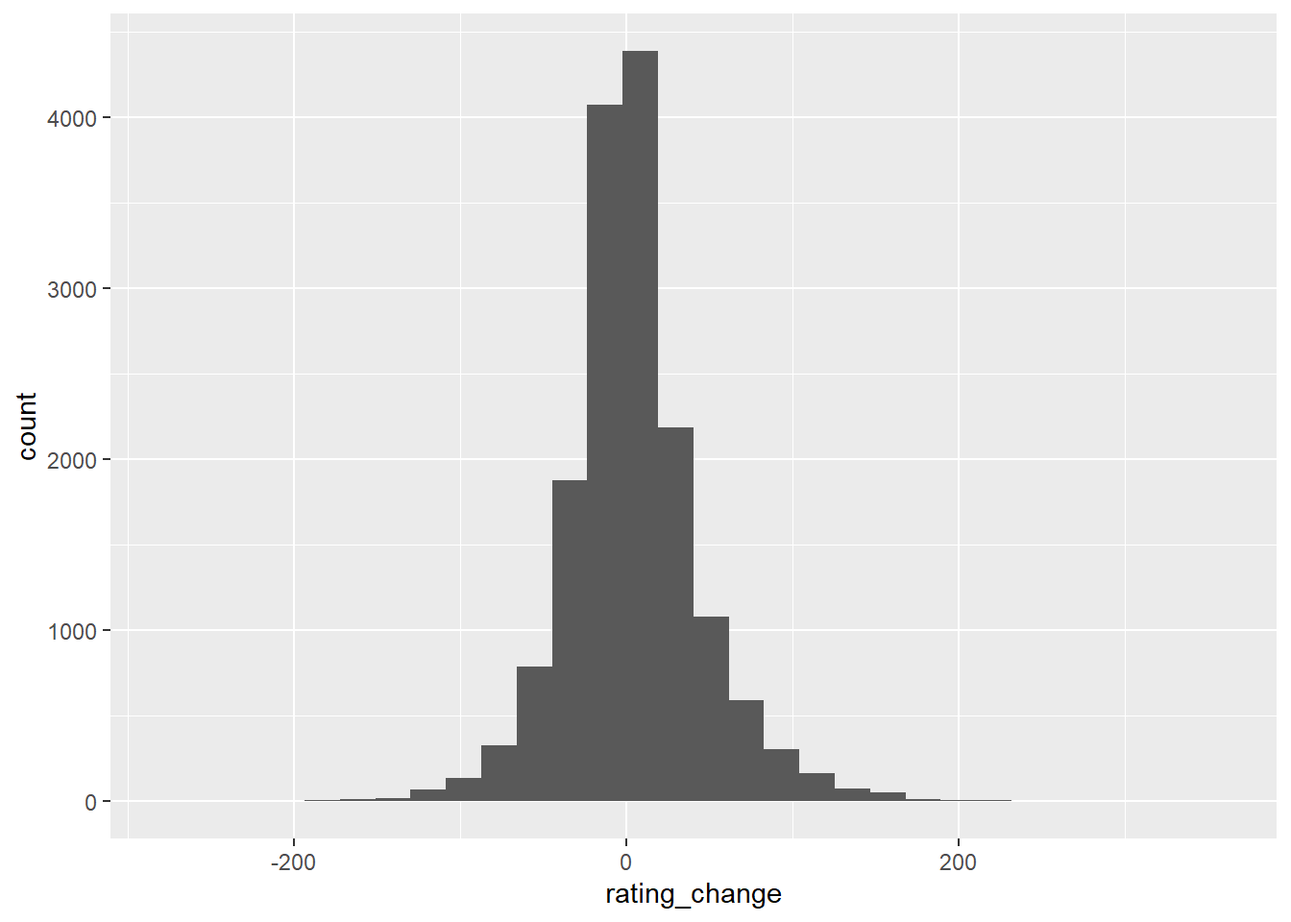
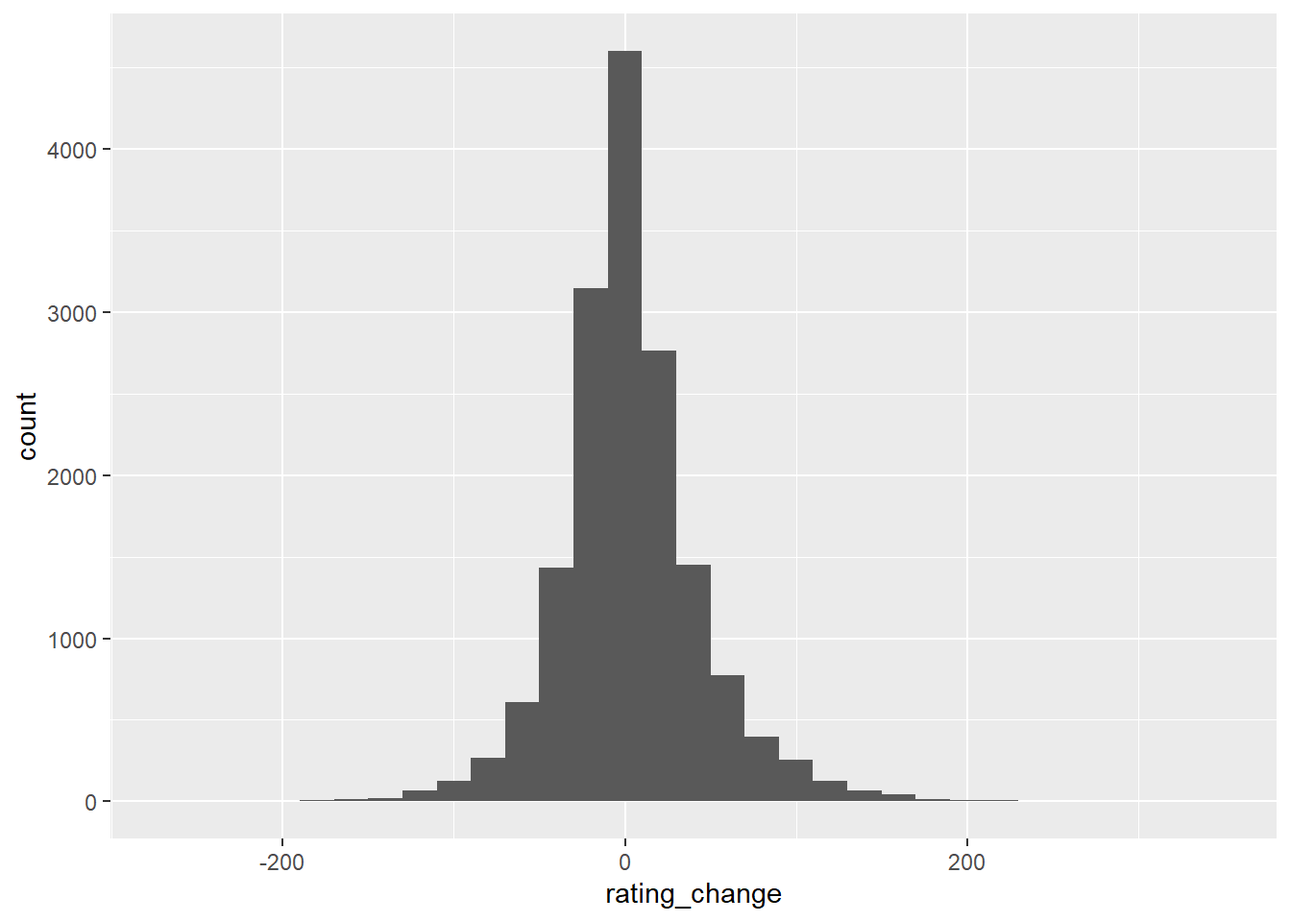
Cleaned up some grammar and presentation stuff.

diff --git a/2025_09_23_FIDE_Chess.html b/2025_09_23_FIDE_Chess.html
@@ -6,7 +6,7 @@
 
 <meta name="viewport" content="width=device-width, initial-scale=1.0, user-scalable=yes">
 
-<meta name="dcterms.date" content="2025-09-29">
+<meta name="dcterms.date" content="2025-09-30">
 
 <title>Tidy Tuesday (2025-09-23): FIDE Chess Player Ratings</title>
 <style>
@@ -93,7 +93,7 @@ pre > code.sourceCode > span > a:first-child::before { text-decoration: underlin
     <div>
     <div class="quarto-title-meta-heading">Published</div>
     <div class="quarto-title-meta-contents">
-      <p class="date">September 29, 2025</p>
+      <p class="date">September 30, 2025</p>
     </div>
   </div>
   
@@ -118,7 +118,7 @@ pre > code.sourceCode > span > a:first-child::before { text-decoration: underlin
 <section id="intro" class="level1">
 <h1>Intro</h1>
 <section id="fide-chess-player-ratings-background-git" class="level2">
-<h2 class="anchored" data-anchor-id="fide-chess-player-ratings-background-git">FIDE Chess Player Ratings Background (*<a href="https://github.com/rfordatascience/tidytuesday/tree/main/data/2025/2025-09-23*">Git</a>)</h2>
+<h2 class="anchored" data-anchor-id="fide-chess-player-ratings-background-git">FIDE Chess Player Ratings Background (<em><a href="https://github.com/rfordatascience/tidytuesday/tree/main/data/2025/2025-09-23">Git</a></em>)</h2>
 <p>This week we’re exploring August and September chess player rating data from FIDE (the International Chess Federation). Monthly data files are published on the <a href="https://www.fide.com/fide-september-2025-rating-list-vincent-keymer-debuts-in-top-10-open/">FIDE website</a>.</p>
 <p>A chess rating (Elo) is an estimate of a player’s strength relative to other players. If a player performs better or worse than expected, their rating increases or decreases accordingly.</p>
 <p>The September 2025 rating list was shaped primarily by results from the Sinquefield Cup, Quantbox Chennai Grand Masters, 61st International Akiba Rubinstein Chess Festival, and the Spanish League Honor Division 2025 – a Swiss team tournament held in Linares.</p>
@@ -178,7 +178,7 @@ pre > code.sourceCode > span > a:first-child::before { text-decoration: underlin
 <span id="cb4-8"><a href="#cb4-8" aria-hidden="true" tabindex="-1"></a>    ) <span class="sc">|&gt;</span></span>
 <span id="cb4-9"><a href="#cb4-9" aria-hidden="true" tabindex="-1"></a>    <span class="fu">mutate</span>(</span>
 <span id="cb4-10"><a href="#cb4-10" aria-hidden="true" tabindex="-1"></a>      <span class="at">age_range =</span> <span class="fu">case_when</span>(</span>
-<span id="cb4-11"><a href="#cb4-11" aria-hidden="true" tabindex="-1"></a>        <span class="fu">between</span>(age, <span class="dv">5</span>, <span class="dv">9</span>) <span class="sc">~</span> <span class="st">"5 - 9"</span>,</span>
+<span id="cb4-11"><a href="#cb4-11" aria-hidden="true" tabindex="-1"></a>        <span class="fu">between</span>(age, <span class="dv">0</span>, <span class="dv">9</span>) <span class="sc">~</span> <span class="st">"0 - 9"</span>,</span>
 <span id="cb4-12"><a href="#cb4-12" aria-hidden="true" tabindex="-1"></a>        <span class="fu">between</span>(age, <span class="dv">10</span>, <span class="dv">14</span>) <span class="sc">~</span> <span class="st">"10 - 14"</span>,</span>
 <span id="cb4-13"><a href="#cb4-13" aria-hidden="true" tabindex="-1"></a>        <span class="fu">between</span>(age, <span class="dv">15</span>, <span class="dv">19</span>) <span class="sc">~</span> <span class="st">"15 - 19"</span>,</span>
 <span id="cb4-14"><a href="#cb4-14" aria-hidden="true" tabindex="-1"></a>        <span class="fu">between</span>(age, <span class="dv">20</span>, <span class="dv">24</span>) <span class="sc">~</span> <span class="st">"20 - 24"</span>,</span>
@@ -193,7 +193,7 @@ pre > code.sourceCode > span > a:first-child::before { text-decoration: underlin
 <span id="cb4-23"><a href="#cb4-23" aria-hidden="true" tabindex="-1"></a>      <span class="at">age_range =</span> <span class="fu">factor</span>(</span>
 <span id="cb4-24"><a href="#cb4-24" aria-hidden="true" tabindex="-1"></a>        age_range,</span>
 <span id="cb4-25"><a href="#cb4-25" aria-hidden="true" tabindex="-1"></a>        <span class="fu">c</span>(</span>
-<span id="cb4-26"><a href="#cb4-26" aria-hidden="true" tabindex="-1"></a>          <span class="st">"5 - 9"</span>,</span>
+<span id="cb4-26"><a href="#cb4-26" aria-hidden="true" tabindex="-1"></a>          <span class="st">"0 - 9"</span>,</span>
 <span id="cb4-27"><a href="#cb4-27" aria-hidden="true" tabindex="-1"></a>          <span class="st">"10 - 14"</span>,</span>
 <span id="cb4-28"><a href="#cb4-28" aria-hidden="true" tabindex="-1"></a>          <span class="st">"15 - 19"</span>,</span>
 <span id="cb4-29"><a href="#cb4-29" aria-hidden="true" tabindex="-1"></a>          <span class="st">"20 - 24"</span>,</span>
@@ -230,10 +230,11 @@ pre > code.sourceCode > span > a:first-child::before { text-decoration: underlin
 <span id="cb6-3"><a href="#cb6-3" aria-hidden="true" tabindex="-1"></a>    <span class="fu">summarise</span>(</span>
 <span id="cb6-4"><a href="#cb6-4" aria-hidden="true" tabindex="-1"></a>        <span class="at">n_active =</span> dplyr<span class="sc">::</span><span class="fu">n_distinct</span>(id),</span>
 <span id="cb6-5"><a href="#cb6-5" aria-hidden="true" tabindex="-1"></a>        <span class="at">n_logged =</span> <span class="fu">sum</span>(games <span class="sc">&gt;</span> <span class="dv">0</span>),</span>
-<span id="cb6-6"><a href="#cb6-6" aria-hidden="true" tabindex="-1"></a>        <span class="at">percent_log =</span> <span class="fu">round</span>(n_logged <span class="sc">/</span> n_active <span class="sc">*</span> <span class="dv">100</span>, <span class="dv">1</span>)</span>
-<span id="cb6-7"><a href="#cb6-7" aria-hidden="true" tabindex="-1"></a>        )</span>
-<span id="cb6-8"><a href="#cb6-8" aria-hidden="true" tabindex="-1"></a></span>
-<span id="cb6-9"><a href="#cb6-9" aria-hidden="true" tabindex="-1"></a><span class="fu">kable</span>(tb_ratings_summary)</span></code><button title="Copy to Clipboard" class="code-copy-button"><i class="bi"></i></button></pre></div>
+<span id="cb6-6"><a href="#cb6-6" aria-hidden="true" tabindex="-1"></a>        <span class="at">percent_log =</span> <span class="fu">round</span>(n_logged <span class="sc">/</span> n_active <span class="sc">*</span> <span class="dv">100</span>, <span class="dv">1</span>),</span>
+<span id="cb6-7"><a href="#cb6-7" aria-hidden="true" tabindex="-1"></a>        <span class="at">.groups =</span> <span class="st">"keep"</span></span>
+<span id="cb6-8"><a href="#cb6-8" aria-hidden="true" tabindex="-1"></a>        )</span>
+<span id="cb6-9"><a href="#cb6-9" aria-hidden="true" tabindex="-1"></a></span>
+<span id="cb6-10"><a href="#cb6-10" aria-hidden="true" tabindex="-1"></a><span class="fu">kable</span>(tb_ratings_summary)</span></code><button title="Copy to Clipboard" class="code-copy-button"><i class="bi"></i></button></pre></div>
 </details>
 <div class="cell-output-display">
 <table class="caption-top table table-sm table-striped small">
@@ -419,11 +420,8 @@ pre > code.sourceCode > span > a:first-child::before { text-decoration: underlin
 <summary>Code</summary>
 <div class="sourceCode cell-code" id="cb13"><pre class="sourceCode r code-with-copy"><code class="sourceCode r"><span id="cb13-1"><a href="#cb13-1" aria-hidden="true" tabindex="-1"></a>tb_ratings_change <span class="sc">|&gt;</span> </span>
 <span id="cb13-2"><a href="#cb13-2" aria-hidden="true" tabindex="-1"></a>  <span class="fu">ggplot</span>(<span class="fu">aes</span>(rating_change)) <span class="sc">+</span></span>
-<span id="cb13-3"><a href="#cb13-3" aria-hidden="true" tabindex="-1"></a>  <span class="fu">geom_histogram</span>()</span></code><button title="Copy to Clipboard" class="code-copy-button"><i class="bi"></i></button></pre></div>
+<span id="cb13-3"><a href="#cb13-3" aria-hidden="true" tabindex="-1"></a>  <span class="fu">geom_histogram</span>(<span class="at">binwidth =</span> <span class="dv">20</span>)</span></code><button title="Copy to Clipboard" class="code-copy-button"><i class="bi"></i></button></pre></div>
 </details>
-<div class="cell-output cell-output-stderr">
-<pre><code>`stat_bin()` using `bins = 30`. Pick better value `binwidth`.</code></pre>
-</div>
 <div class="cell-output-display">
 <div>
 <figure class="figure">
@@ -433,20 +431,20 @@ pre > code.sourceCode > span > a:first-child::before { text-decoration: underlin
 </div>
 <details class="code-fold">
 <summary>Code</summary>
-<div class="sourceCode cell-code" id="cb15"><pre class="sourceCode r code-with-copy"><code class="sourceCode r"><span id="cb15-1"><a href="#cb15-1" aria-hidden="true" tabindex="-1"></a>t_test_change <span class="ot">&lt;-</span> <span class="fu">t.test</span>(tb_ratings_change<span class="sc">$</span>rating_change)</span></code><button title="Copy to Clipboard" class="code-copy-button"><i class="bi"></i></button></pre></div>
+<div class="sourceCode cell-code" id="cb14"><pre class="sourceCode r code-with-copy"><code class="sourceCode r"><span id="cb14-1"><a href="#cb14-1" aria-hidden="true" tabindex="-1"></a>t_test_change <span class="ot">&lt;-</span> <span class="fu">t.test</span>(tb_ratings_change<span class="sc">$</span>rating_change)</span></code><button title="Copy to Clipboard" class="code-copy-button"><i class="bi"></i></button></pre></div>
 </details>
 </div>
-<p>The average player improved their Elo from August to September by 4 with 95% CI [3.1273579, 4.3906117].</p>
+<p>The average player improved their Elo from August to September by 3.8 with 95% CI [3.1, 4.4].</p>
 <div class="cell" data-tbl-cap="Top 5 Elo changes from August to September for each title category.">
 <details class="code-fold">
 <summary>Code</summary>
-<div class="sourceCode cell-code" id="cb16"><pre class="sourceCode r code-with-copy"><code class="sourceCode r"><span id="cb16-1"><a href="#cb16-1" aria-hidden="true" tabindex="-1"></a>tb_ratings_change <span class="sc">|&gt;</span> </span>
-<span id="cb16-2"><a href="#cb16-2" aria-hidden="true" tabindex="-1"></a>  <span class="fu">mutate</span>(<span class="at">abs_change =</span> <span class="fu">abs</span>(rating_change)) <span class="sc">|&gt;</span> </span>
-<span id="cb16-3"><a href="#cb16-3" aria-hidden="true" tabindex="-1"></a>  <span class="fu">arrange</span>(<span class="fu">desc</span>(abs_change)) <span class="sc">|&gt;</span> </span>
-<span id="cb16-4"><a href="#cb16-4" aria-hidden="true" tabindex="-1"></a>  <span class="fu">select</span>(name, sex, age, fed, title, rating_September, rating_change) <span class="sc">|&gt;</span> </span>
-<span id="cb16-5"><a href="#cb16-5" aria-hidden="true" tabindex="-1"></a>  <span class="fu">group_by</span>(title) <span class="sc">|&gt;</span> </span>
-<span id="cb16-6"><a href="#cb16-6" aria-hidden="true" tabindex="-1"></a>  <span class="fu">slice_head</span>(<span class="at">n =</span> <span class="dv">5</span>) <span class="sc">|&gt;</span> </span>
-<span id="cb16-7"><a href="#cb16-7" aria-hidden="true" tabindex="-1"></a>  <span class="fu">kable</span>()</span></code><button title="Copy to Clipboard" class="code-copy-button"><i class="bi"></i></button></pre></div>
+<div class="sourceCode cell-code" id="cb15"><pre class="sourceCode r code-with-copy"><code class="sourceCode r"><span id="cb15-1"><a href="#cb15-1" aria-hidden="true" tabindex="-1"></a>tb_ratings_change <span class="sc">|&gt;</span> </span>
+<span id="cb15-2"><a href="#cb15-2" aria-hidden="true" tabindex="-1"></a>  <span class="fu">mutate</span>(<span class="at">abs_change =</span> <span class="fu">abs</span>(rating_change)) <span class="sc">|&gt;</span> </span>
+<span id="cb15-3"><a href="#cb15-3" aria-hidden="true" tabindex="-1"></a>  <span class="fu">arrange</span>(<span class="fu">desc</span>(abs_change)) <span class="sc">|&gt;</span> </span>
+<span id="cb15-4"><a href="#cb15-4" aria-hidden="true" tabindex="-1"></a>  <span class="fu">select</span>(name, sex, age, fed, title, rating_September, rating_change) <span class="sc">|&gt;</span> </span>
+<span id="cb15-5"><a href="#cb15-5" aria-hidden="true" tabindex="-1"></a>  <span class="fu">group_by</span>(title) <span class="sc">|&gt;</span> </span>
+<span id="cb15-6"><a href="#cb15-6" aria-hidden="true" tabindex="-1"></a>  <span class="fu">slice_head</span>(<span class="at">n =</span> <span class="dv">5</span>) <span class="sc">|&gt;</span> </span>
+<span id="cb15-7"><a href="#cb15-7" aria-hidden="true" tabindex="-1"></a>  <span class="fu">kable</span>()</span></code><button title="Copy to Clipboard" class="code-copy-button"><i class="bi"></i></button></pre></div>
 </details>
 <div class="cell-output-display">
 <table class="caption-top table table-sm table-striped small">
@@ -884,22 +882,18 @@ pre > code.sourceCode > span > a:first-child::before { text-decoration: underlin
 <div class="cell">
 <details class="code-fold">
 <summary>Code</summary>
-<div class="sourceCode cell-code" id="cb17"><pre class="sourceCode r code-with-copy"><code class="sourceCode r"><span id="cb17-1"><a href="#cb17-1" aria-hidden="true" tabindex="-1"></a>tb_title_summary <span class="ot">&lt;-</span> tb_ratings <span class="sc">|&gt;</span></span>
-<span id="cb17-2"><a href="#cb17-2" aria-hidden="true" tabindex="-1"></a>  <span class="fu">group_by</span>(sex, month) <span class="sc">|&gt;</span></span>
-<span id="cb17-3"><a href="#cb17-3" aria-hidden="true" tabindex="-1"></a>  <span class="fu">count</span>(title, <span class="at">name =</span> <span class="st">"n_people"</span>) <span class="sc">|&gt;</span></span>
-<span id="cb17-4"><a href="#cb17-4" aria-hidden="true" tabindex="-1"></a>  <span class="fu">add_count</span>(sex, <span class="at">wt =</span> n_people, <span class="at">name =</span> <span class="st">"total"</span>) <span class="sc">|&gt;</span></span>
-<span id="cb17-5"><a href="#cb17-5" aria-hidden="true" tabindex="-1"></a>  <span class="fu">mutate</span>(<span class="at">percent_title =</span> <span class="fu">round</span>(n_people <span class="sc">/</span> total <span class="sc">*</span> <span class="dv">100</span>, <span class="dv">2</span>))</span>
-<span id="cb17-6"><a href="#cb17-6" aria-hidden="true" tabindex="-1"></a></span>
-<span id="cb17-7"><a href="#cb17-7" aria-hidden="true" tabindex="-1"></a>tb_ratings <span class="sc">|&gt;</span></span>
-<span id="cb17-8"><a href="#cb17-8" aria-hidden="true" tabindex="-1"></a>  <span class="fu">filter</span>(<span class="sc">!</span><span class="fu">is.na</span>(title)) <span class="sc">|&gt;</span></span>
-<span id="cb17-9"><a href="#cb17-9" aria-hidden="true" tabindex="-1"></a>  <span class="fu">ggplot</span>(<span class="fu">aes</span>(title, <span class="at">fill =</span> month)) <span class="sc">+</span></span>
-<span id="cb17-10"><a href="#cb17-10" aria-hidden="true" tabindex="-1"></a>  <span class="fu">geom_histogram</span>(<span class="at">stat =</span> <span class="st">"count"</span>, <span class="at">position =</span> <span class="st">"identity"</span>) <span class="sc">+</span></span>
-<span id="cb17-11"><a href="#cb17-11" aria-hidden="true" tabindex="-1"></a>  <span class="fu">facet_wrap</span>(<span class="fu">vars</span>(sex))</span></code><button title="Copy to Clipboard" class="code-copy-button"><i class="bi"></i></button></pre></div>
+<div class="sourceCode cell-code" id="cb16"><pre class="sourceCode r code-with-copy"><code class="sourceCode r"><span id="cb16-1"><a href="#cb16-1" aria-hidden="true" tabindex="-1"></a>tb_title_summary <span class="ot">&lt;-</span> tb_ratings <span class="sc">|&gt;</span></span>
+<span id="cb16-2"><a href="#cb16-2" aria-hidden="true" tabindex="-1"></a>  <span class="fu">group_by</span>(sex, month) <span class="sc">|&gt;</span></span>
+<span id="cb16-3"><a href="#cb16-3" aria-hidden="true" tabindex="-1"></a>  <span class="fu">count</span>(title, <span class="at">name =</span> <span class="st">"n_people"</span>) <span class="sc">|&gt;</span></span>
+<span id="cb16-4"><a href="#cb16-4" aria-hidden="true" tabindex="-1"></a>  <span class="fu">add_count</span>(sex, <span class="at">wt =</span> n_people, <span class="at">name =</span> <span class="st">"total"</span>) <span class="sc">|&gt;</span></span>
+<span id="cb16-5"><a href="#cb16-5" aria-hidden="true" tabindex="-1"></a>  <span class="fu">mutate</span>(<span class="at">percent_title =</span> <span class="fu">round</span>(n_people <span class="sc">/</span> total <span class="sc">*</span> <span class="dv">100</span>, <span class="dv">2</span>))</span>
+<span id="cb16-6"><a href="#cb16-6" aria-hidden="true" tabindex="-1"></a></span>
+<span id="cb16-7"><a href="#cb16-7" aria-hidden="true" tabindex="-1"></a>tb_ratings <span class="sc">|&gt;</span></span>
+<span id="cb16-8"><a href="#cb16-8" aria-hidden="true" tabindex="-1"></a>  <span class="fu">filter</span>(<span class="sc">!</span><span class="fu">is.na</span>(title)) <span class="sc">|&gt;</span></span>
+<span id="cb16-9"><a href="#cb16-9" aria-hidden="true" tabindex="-1"></a>  <span class="fu">ggplot</span>(<span class="fu">aes</span>(title, <span class="at">fill =</span> month)) <span class="sc">+</span></span>
+<span id="cb16-10"><a href="#cb16-10" aria-hidden="true" tabindex="-1"></a>  <span class="fu">geom_histogram</span>(<span class="at">stat =</span> <span class="st">"count"</span>, <span class="at">position =</span> <span class="st">"identity"</span>) <span class="sc">+</span></span>
+<span id="cb16-11"><a href="#cb16-11" aria-hidden="true" tabindex="-1"></a>  <span class="fu">facet_wrap</span>(<span class="fu">vars</span>(sex))</span></code><button title="Copy to Clipboard" class="code-copy-button"><i class="bi"></i></button></pre></div>
 </details>
-<div class="cell-output cell-output-stderr">
-<pre><code>Warning in geom_histogram(stat = "count", position = "identity"): Ignoring
-unknown parameters: `binwidth` and `bins`</code></pre>
-</div>
 <div class="cell-output-display">
 <div class="quarto-figure quarto-figure-center">
 <figure class="figure">
@@ -912,21 +906,21 @@ unknown parameters: `binwidth` and `bins`</code></pre>
 <div class="cell">
 <details class="code-fold">
 <summary>Code</summary>
-<div class="sourceCode cell-code" id="cb19"><pre class="sourceCode r code-with-copy"><code class="sourceCode r"><span id="cb19-1"><a href="#cb19-1" aria-hidden="true" tabindex="-1"></a>tb_sex_ratio <span class="ot">&lt;-</span> tb_ratings <span class="sc">|&gt;</span></span>
-<span id="cb19-2"><a href="#cb19-2" aria-hidden="true" tabindex="-1"></a>  <span class="fu">anti_join</span>(tb_removed <span class="sc">|&gt;</span> <span class="fu">drop_na</span>(games), <span class="fu">join_by</span>(id)) <span class="sc">|&gt;</span> </span>
-<span id="cb19-3"><a href="#cb19-3" aria-hidden="true" tabindex="-1"></a>  <span class="fu">distinct</span>(id, <span class="at">.keep_all =</span> T) <span class="sc">|&gt;</span> </span>
-<span id="cb19-4"><a href="#cb19-4" aria-hidden="true" tabindex="-1"></a>  <span class="fu">group_by</span>(sex, fed) <span class="sc">|&gt;</span></span>
-<span id="cb19-5"><a href="#cb19-5" aria-hidden="true" tabindex="-1"></a>  <span class="fu">count</span>(age_range, <span class="at">name =</span> <span class="st">"n_people"</span>) <span class="sc">|&gt;</span></span>
-<span id="cb19-6"><a href="#cb19-6" aria-hidden="true" tabindex="-1"></a>  <span class="fu">pivot_wider</span>(<span class="at">names_from =</span> sex, <span class="at">values_from =</span> n_people) <span class="sc">|&gt;</span></span>
-<span id="cb19-7"><a href="#cb19-7" aria-hidden="true" tabindex="-1"></a>  <span class="fu">drop_na</span>(age_range) <span class="sc">|&gt;</span> </span>
-<span id="cb19-8"><a href="#cb19-8" aria-hidden="true" tabindex="-1"></a>  <span class="fu">mutate</span>(<span class="at">sex_ratio =</span> M <span class="sc">/</span> F)</span>
-<span id="cb19-9"><a href="#cb19-9" aria-hidden="true" tabindex="-1"></a></span>
-<span id="cb19-10"><a href="#cb19-10" aria-hidden="true" tabindex="-1"></a>tb_sex_ratio <span class="sc">|&gt;</span></span>
-<span id="cb19-11"><a href="#cb19-11" aria-hidden="true" tabindex="-1"></a>  <span class="fu">drop_na</span>(sex_ratio) <span class="sc">|&gt;</span> </span>
-<span id="cb19-12"><a href="#cb19-12" aria-hidden="true" tabindex="-1"></a>  <span class="fu">ggplot</span>(<span class="fu">aes</span>(<span class="fu">fct_rev</span>(age_range), sex_ratio, <span class="at">fill =</span> age_range)) <span class="sc">+</span></span>
-<span id="cb19-13"><a href="#cb19-13" aria-hidden="true" tabindex="-1"></a>  <span class="fu">geom_violin</span>() <span class="sc">+</span></span>
-<span id="cb19-14"><a href="#cb19-14" aria-hidden="true" tabindex="-1"></a>  <span class="fu">geom_point</span>(<span class="fu">aes</span>(<span class="at">size =</span> F <span class="sc">+</span> M), <span class="at">alpha =</span> <span class="fl">0.6</span>) <span class="sc">+</span></span>
-<span id="cb19-15"><a href="#cb19-15" aria-hidden="true" tabindex="-1"></a>  <span class="fu">labs</span>(<span class="at">x =</span> <span class="st">"age"</span>, <span class="at">y =</span> <span class="st">"sex ratio (M:F)"</span>)</span></code><button title="Copy to Clipboard" class="code-copy-button"><i class="bi"></i></button></pre></div>
+<div class="sourceCode cell-code" id="cb17"><pre class="sourceCode r code-with-copy"><code class="sourceCode r"><span id="cb17-1"><a href="#cb17-1" aria-hidden="true" tabindex="-1"></a>tb_sex_ratio <span class="ot">&lt;-</span> tb_ratings <span class="sc">|&gt;</span></span>
+<span id="cb17-2"><a href="#cb17-2" aria-hidden="true" tabindex="-1"></a>  <span class="fu">anti_join</span>(tb_removed <span class="sc">|&gt;</span> <span class="fu">drop_na</span>(games), <span class="fu">join_by</span>(id)) <span class="sc">|&gt;</span> </span>
+<span id="cb17-3"><a href="#cb17-3" aria-hidden="true" tabindex="-1"></a>  <span class="fu">distinct</span>(id, <span class="at">.keep_all =</span> T) <span class="sc">|&gt;</span> </span>
+<span id="cb17-4"><a href="#cb17-4" aria-hidden="true" tabindex="-1"></a>  <span class="fu">group_by</span>(sex, fed) <span class="sc">|&gt;</span></span>
+<span id="cb17-5"><a href="#cb17-5" aria-hidden="true" tabindex="-1"></a>  <span class="fu">count</span>(age_range, <span class="at">name =</span> <span class="st">"n_people"</span>) <span class="sc">|&gt;</span></span>
+<span id="cb17-6"><a href="#cb17-6" aria-hidden="true" tabindex="-1"></a>  <span class="fu">pivot_wider</span>(<span class="at">names_from =</span> sex, <span class="at">values_from =</span> n_people) <span class="sc">|&gt;</span></span>
+<span id="cb17-7"><a href="#cb17-7" aria-hidden="true" tabindex="-1"></a>  <span class="fu">drop_na</span>(age_range) <span class="sc">|&gt;</span> </span>
+<span id="cb17-8"><a href="#cb17-8" aria-hidden="true" tabindex="-1"></a>  <span class="fu">mutate</span>(<span class="at">sex_ratio =</span> M <span class="sc">/</span> F)</span>
+<span id="cb17-9"><a href="#cb17-9" aria-hidden="true" tabindex="-1"></a></span>
+<span id="cb17-10"><a href="#cb17-10" aria-hidden="true" tabindex="-1"></a>tb_sex_ratio <span class="sc">|&gt;</span></span>
+<span id="cb17-11"><a href="#cb17-11" aria-hidden="true" tabindex="-1"></a>  <span class="fu">drop_na</span>(sex_ratio) <span class="sc">|&gt;</span> </span>
+<span id="cb17-12"><a href="#cb17-12" aria-hidden="true" tabindex="-1"></a>  <span class="fu">ggplot</span>(<span class="fu">aes</span>(<span class="fu">fct_rev</span>(age_range), sex_ratio, <span class="at">fill =</span> age_range)) <span class="sc">+</span></span>
+<span id="cb17-13"><a href="#cb17-13" aria-hidden="true" tabindex="-1"></a>  <span class="fu">geom_violin</span>() <span class="sc">+</span></span>
+<span id="cb17-14"><a href="#cb17-14" aria-hidden="true" tabindex="-1"></a>  <span class="fu">geom_point</span>(<span class="fu">aes</span>(<span class="at">size =</span> F <span class="sc">+</span> M), <span class="at">alpha =</span> <span class="fl">0.6</span>) <span class="sc">+</span></span>
+<span id="cb17-15"><a href="#cb17-15" aria-hidden="true" tabindex="-1"></a>  <span class="fu">labs</span>(<span class="at">x =</span> <span class="st">"age"</span>, <span class="at">y =</span> <span class="st">"sex ratio (M:F)"</span>)</span></code><button title="Copy to Clipboard" class="code-copy-button"><i class="bi"></i></button></pre></div>
 </details>
 <div class="cell-output-display">
 <div>
@@ -940,44 +934,188 @@ unknown parameters: `binwidth` and `bins`</code></pre>
 <div class="cell">
 <details class="code-fold">
 <summary>Code</summary>
-<div class="sourceCode cell-code" id="cb20"><pre class="sourceCode r code-with-copy"><code class="sourceCode r"><span id="cb20-1"><a href="#cb20-1" aria-hidden="true" tabindex="-1"></a>tb_sex_ratio <span class="sc">|&gt;</span> <span class="fu">group_by</span>(age_range) <span class="sc">|&gt;</span> <span class="fu">slice_max</span>(sex_ratio)</span></code><button title="Copy to Clipboard" class="code-copy-button"><i class="bi"></i></button></pre></div>
+<div class="sourceCode cell-code" id="cb18"><pre class="sourceCode r code-with-copy"><code class="sourceCode r"><span id="cb18-1"><a href="#cb18-1" aria-hidden="true" tabindex="-1"></a>tb_sex_ratio <span class="sc">|&gt;</span> <span class="fu">group_by</span>(age_range) <span class="sc">|&gt;</span> <span class="fu">slice_max</span>(sex_ratio) <span class="sc">|&gt;</span> <span class="fu">kable</span>()</span></code><button title="Copy to Clipboard" class="code-copy-button"><i class="bi"></i></button></pre></div>
 </details>
-<div class="cell-output cell-output-stdout">
-<pre><code># A tibble: 9 × 5
-# Groups:   age_range [9]
-  fed   age_range     F     M sex_ratio
-  &lt;fct&gt; &lt;fct&gt;     &lt;int&gt; &lt;int&gt;     &lt;dbl&gt;
-1 KOR   5 - 9         1    27      27  
-2 SCO   10 - 14       1    21      21  
-3 HKG   15 - 19       3    39      13  
-4 SWE   20 - 24       1    49      49  
-5 CAN   25 - 29       1    59      59  
-6 MEX   30 - 39       3   107      35.7
-7 SWE   40 - 49       1    77      77  
-8 IND   50 - 59       2   312     156  
-9 CZE   over 60       2   174      87  </code></pre>
+<div class="cell-output-display">
+<table class="caption-top table table-sm table-striped small">
+<thead>
+<tr class="header">
+<th style="text-align: left;">fed</th>
+<th style="text-align: left;">age_range</th>
+<th style="text-align: right;">F</th>
+<th style="text-align: right;">M</th>
+<th style="text-align: right;">sex_ratio</th>
+</tr>
+</thead>
+<tbody>
+<tr class="odd">
+<td style="text-align: left;">KOR</td>
+<td style="text-align: left;">5 - 9</td>
+<td style="text-align: right;">1</td>
+<td style="text-align: right;">27</td>
+<td style="text-align: right;">27.00000</td>
+</tr>
+<tr class="even">
+<td style="text-align: left;">SCO</td>
+<td style="text-align: left;">10 - 14</td>
+<td style="text-align: right;">1</td>
+<td style="text-align: right;">21</td>
+<td style="text-align: right;">21.00000</td>
+</tr>
+<tr class="odd">
+<td style="text-align: left;">HKG</td>
+<td style="text-align: left;">15 - 19</td>
+<td style="text-align: right;">3</td>
+<td style="text-align: right;">39</td>
+<td style="text-align: right;">13.00000</td>
+</tr>
+<tr class="even">
+<td style="text-align: left;">SWE</td>
+<td style="text-align: left;">20 - 24</td>
+<td style="text-align: right;">1</td>
+<td style="text-align: right;">49</td>
+<td style="text-align: right;">49.00000</td>
+</tr>
+<tr class="odd">
+<td style="text-align: left;">CAN</td>
+<td style="text-align: left;">25 - 29</td>
+<td style="text-align: right;">1</td>
+<td style="text-align: right;">59</td>
+<td style="text-align: right;">59.00000</td>
+</tr>
+<tr class="even">
+<td style="text-align: left;">MEX</td>
+<td style="text-align: left;">30 - 39</td>
+<td style="text-align: right;">3</td>
+<td style="text-align: right;">107</td>
+<td style="text-align: right;">35.66667</td>
+</tr>
+<tr class="odd">
+<td style="text-align: left;">SWE</td>
+<td style="text-align: left;">40 - 49</td>
+<td style="text-align: right;">1</td>
+<td style="text-align: right;">77</td>
+<td style="text-align: right;">77.00000</td>
+</tr>
+<tr class="even">
+<td style="text-align: left;">IND</td>
+<td style="text-align: left;">50 - 59</td>
+<td style="text-align: right;">2</td>
+<td style="text-align: right;">312</td>
+<td style="text-align: right;">156.00000</td>
+</tr>
+<tr class="odd">
+<td style="text-align: left;">CZE</td>
+<td style="text-align: left;">over 60</td>
+<td style="text-align: right;">2</td>
+<td style="text-align: right;">174</td>
+<td style="text-align: right;">87.00000</td>
+</tr>
+</tbody>
+</table>
 </div>
 <details class="code-fold">
 <summary>Code</summary>
-<div class="sourceCode cell-code" id="cb22"><pre class="sourceCode r code-with-copy"><code class="sourceCode r"><span id="cb22-1"><a href="#cb22-1" aria-hidden="true" tabindex="-1"></a>tb_sex_ratio <span class="sc">|&gt;</span> <span class="fu">group_by</span>(age_range) <span class="sc">|&gt;</span> <span class="fu">slice_min</span>(sex_ratio)</span></code><button title="Copy to Clipboard" class="code-copy-button"><i class="bi"></i></button></pre></div>
+<div class="sourceCode cell-code" id="cb19"><pre class="sourceCode r code-with-copy"><code class="sourceCode r"><span id="cb19-1"><a href="#cb19-1" aria-hidden="true" tabindex="-1"></a>tb_sex_ratio <span class="sc">|&gt;</span> <span class="fu">group_by</span>(age_range) <span class="sc">|&gt;</span> <span class="fu">slice_min</span>(sex_ratio) <span class="sc">|&gt;</span> <span class="fu">kable</span>()</span></code><button title="Copy to Clipboard" class="code-copy-button"><i class="bi"></i></button></pre></div>
 </details>
-<div class="cell-output cell-output-stdout">
-<pre><code># A tibble: 12 × 5
-# Groups:   age_range [9]
-   fed   age_range     F     M sex_ratio
-   &lt;fct&gt; &lt;fct&gt;     &lt;int&gt; &lt;int&gt;     &lt;dbl&gt;
- 1 POR   5 - 9         5     3     0.6  
- 2 NGR   10 - 14       8     4     0.5  
- 3 CPV   15 - 19       4     3     0.75 
- 4 TJK   15 - 19       4     3     0.75 
- 5 INA   20 - 24       3     1     0.333
- 6 EST   25 - 29       2     1     0.5  
- 7 ISL   30 - 39       2     1     0.5  
- 8 VIE   40 - 49       2     1     0.5  
- 9 BER   50 - 59       1     1     1    
-10 GUA   50 - 59       1     1     1    
-11 EST   over 60       1     1     1    
-12 MNC   over 60       1     1     1    </code></pre>
+<div class="cell-output-display">
+<table class="caption-top table table-sm table-striped small">
+<thead>
+<tr class="header">
+<th style="text-align: left;">fed</th>
+<th style="text-align: left;">age_range</th>
+<th style="text-align: right;">F</th>
+<th style="text-align: right;">M</th>
+<th style="text-align: right;">sex_ratio</th>
+</tr>
+</thead>
+<tbody>
+<tr class="odd">
+<td style="text-align: left;">POR</td>
+<td style="text-align: left;">5 - 9</td>
+<td style="text-align: right;">5</td>
+<td style="text-align: right;">3</td>
+<td style="text-align: right;">0.6000000</td>
+</tr>
+<tr class="even">
+<td style="text-align: left;">NGR</td>
+<td style="text-align: left;">10 - 14</td>
+<td style="text-align: right;">8</td>
+<td style="text-align: right;">4</td>
+<td style="text-align: right;">0.5000000</td>
+</tr>
+<tr class="odd">
+<td style="text-align: left;">CPV</td>
+<td style="text-align: left;">15 - 19</td>
+<td style="text-align: right;">4</td>
+<td style="text-align: right;">3</td>
+<td style="text-align: right;">0.7500000</td>
+</tr>
+<tr class="even">
+<td style="text-align: left;">TJK</td>
+<td style="text-align: left;">15 - 19</td>
+<td style="text-align: right;">4</td>
+<td style="text-align: right;">3</td>
+<td style="text-align: right;">0.7500000</td>
+</tr>
+<tr class="odd">
+<td style="text-align: left;">INA</td>
+<td style="text-align: left;">20 - 24</td>
+<td style="text-align: right;">3</td>
+<td style="text-align: right;">1</td>
+<td style="text-align: right;">0.3333333</td>
+</tr>
+<tr class="even">
+<td style="text-align: left;">EST</td>
+<td style="text-align: left;">25 - 29</td>
+<td style="text-align: right;">2</td>
+<td style="text-align: right;">1</td>
+<td style="text-align: right;">0.5000000</td>
+</tr>
+<tr class="odd">
+<td style="text-align: left;">ISL</td>
+<td style="text-align: left;">30 - 39</td>
+<td style="text-align: right;">2</td>
+<td style="text-align: right;">1</td>
+<td style="text-align: right;">0.5000000</td>
+</tr>
+<tr class="even">
+<td style="text-align: left;">VIE</td>
+<td style="text-align: left;">40 - 49</td>
+<td style="text-align: right;">2</td>
+<td style="text-align: right;">1</td>
+<td style="text-align: right;">0.5000000</td>
+</tr>
+<tr class="odd">
+<td style="text-align: left;">BER</td>
+<td style="text-align: left;">50 - 59</td>
+<td style="text-align: right;">1</td>
+<td style="text-align: right;">1</td>
+<td style="text-align: right;">1.0000000</td>
+</tr>
+<tr class="even">
+<td style="text-align: left;">GUA</td>
+<td style="text-align: left;">50 - 59</td>
+<td style="text-align: right;">1</td>
+<td style="text-align: right;">1</td>
+<td style="text-align: right;">1.0000000</td>
+</tr>
+<tr class="odd">
+<td style="text-align: left;">EST</td>
+<td style="text-align: left;">over 60</td>
+<td style="text-align: right;">1</td>
+<td style="text-align: right;">1</td>
+<td style="text-align: right;">1.0000000</td>
+</tr>
+<tr class="even">
+<td style="text-align: left;">MNC</td>
+<td style="text-align: left;">over 60</td>
+<td style="text-align: right;">1</td>
+<td style="text-align: right;">1</td>
+<td style="text-align: right;">1.0000000</td>
+</tr>
+</tbody>
+</table>
 </div>
 </div>
 <p>Wanted to look at sex ratios by Fed, but there are 166 Feds. Might be cool to make a map of total chess players and sex ratio by Fed over time.</p>
